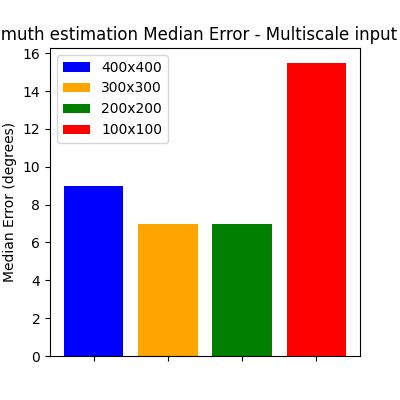
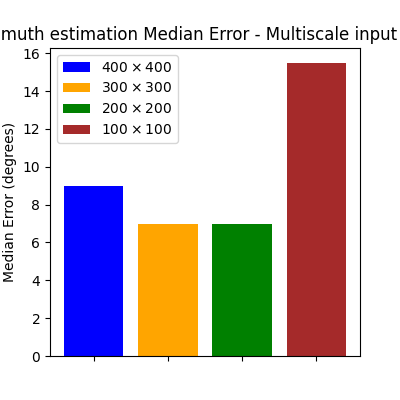
commit

Changed region(s): [[0.72, 0.15, 0.87, 0.9], [0.24, 0.12, 0.45, 0.36], [0.15, 0.3, 0.24, 0.36]]

diff --git a/viewpoint-estimation/results/result.py b/viewpoint-estimation/results/result.py
@@ -12,8 +12,8 @@ medErr_soft_classification = 9.0
 acc_soft_classification = [0.0222, 0.3194, 0.5861, 0.7083, 0.7500, 0.7611, 0.7639, 0.7722, 0.7750, 0.7917, 0.8000, 0.8083]
 medErr_hard_classification = 19.0
 acc_hard_classification = [0.0139, 0.2083, 0.3667, 0.4556, 0.5056, 0.5389, 0.5611, 0.5917, 0.6083, 0.6167, 0.6250, 0.6333]
-medErr_geom_loss = 10.0
-acc_geom_loss = [0.0000, 0.2833, 0.5111, 0.6500, 0.6806, 0.7111, 0.7167, 0.7333, 0.7444, 0.7583, 0.7667,  0.7750]
+medErr_geom_loss = 8.0
+acc_geom_loss = [0.0000, 0.3806, 0.5556, 0.6500, 0.7167, 0.7361, 0.7528, 0.7639, 0.7833, 0.8167, 0.8167, 0.8278]
 medErr_soft_classification_300x300 = 7.0
 acc_soft_classification_300x300 = [0.0222, 0.4222, 0.5833, 0.6639, 0.6806, 0.6806, 0.6889,  0.6972, 0.7139, 0.7167, 0.7167, 0.7417]
 medErr_soft_classification_200x200 = 7.0
@@ -40,10 +40,10 @@ plt.title("Azimuth estimation accuracy- Multiscale input size")
 plt.ylabel("Accuracy")
 plt.xlabel("Maximum error (degrees)")
 
-plt.plot(thresholds, acc_soft_classification, label="400x400")
-plt.plot(thresholds, acc_soft_classification_300x300, label="300x300")
-plt.plot(thresholds, acc_soft_classification_200x200, label="200x200")
-plt.plot(thresholds, acc_soft_classification_100x100, label="100x100")
+plt.plot(thresholds, acc_soft_classification, label=r"$400 \times 400$")
+plt.plot(thresholds, acc_soft_classification_300x300, label=r"$300 \times 300$")
+plt.plot(thresholds, acc_soft_classification_200x200, label=r"$200 \times 200$")
+plt.plot(thresholds, acc_soft_classification_100x100, color="brown", label=r"$100 \times 100$")
 plt.legend(loc="lower right")
 plt.grid(True)
 plt.savefig("azimuth_accuracy_multiscale.png")
@@ -56,11 +56,11 @@ medErrs_multiscale = [medErr_soft_classification, medErr_soft_classification_300
 plt.figure(figsize=[7, 4])
 plt.title("Azimuth estimation - Median Error")
 plt.ylabel("Median Error (degrees)")
-plt.bar(0, medErrs[0], color="b", label="Regression")
+plt.bar(0, medErrs[0], color="royalblue", label="Regression")
 plt.bar(1, medErrs[1], color="orange", label="Nearest neighbor")
 plt.bar(2, medErrs[2], color="r", label="Hard classification")
 plt.bar(3, medErrs[3], color="g", label="Soft classification")
-plt.bar(4, medErrs[4], label="Geometry-aware classification")
+plt.bar(4, medErrs[4], color="darkviolet", label="Geometry-aware classification")
 
 plt.xticks([0, 1, 2, 3, 4], [])
 plt.legend(loc="upper right")
@@ -69,10 +69,10 @@ plt.savefig("azimuth_mederr.png")
 plt.figure(figsize=[4, 4])
 plt.title("Azimuth estimation Median Error - Multiscale input size")
 plt.ylabel("Median Error (degrees)")
-plt.bar(0, medErrs_multiscale[0], color="b", label="400x400")
-plt.bar(1, medErrs_multiscale[1], color="orange", label="300x300")
-plt.bar(2, medErrs_multiscale[2], color="g", label="200x200")
-plt.bar(3, medErrs_multiscale[3], color="r", label="100x100")
+plt.bar(0, medErrs_multiscale[0], color="b", label=r"$400 \times 400$")
+plt.bar(1, medErrs_multiscale[1], color="orange", label=r"$300\times 300$")
+plt.bar(2, medErrs_multiscale[2], color="g", label=r"$200\times 200$")
+plt.bar(3, medErrs_multiscale[3], color="brown", label=r"$100 \times 100$")
 #plt.bar(3, medErrs_multiscale[3], color="g", label="Soft classification")
 plt.xticks([0, 1, 2, 3], [])
 plt.legend(loc="upper left")

diff --git a/viewpoint-estimation/classification/cnn/one_hot_labels_geom_loss/utils.py b/viewpoint-estimation/classification/cnn/one_hot_labels_geom_loss/utils.py
@@ -37,7 +37,7 @@ def angular_distance(angle1, angle2):
     dist = tf.where(dist1>180, x=dist2, y=dist1)
     return dist
 
-def get_weights(gt_class, sigma=3.0):
+def get_weights(gt_class, sigma=7): # sigma changed from 3 to 1
     k = tf.constant([i for i in range(360)], dtype=tf.float32)
     gt = gt_class * tf.ones(shape=(360))
     distances = angular_distance(gt, k)
